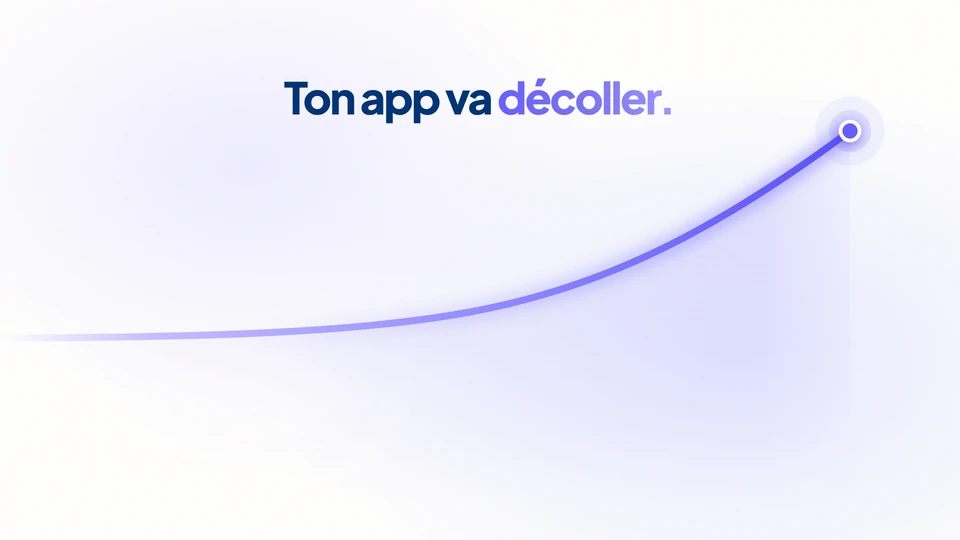
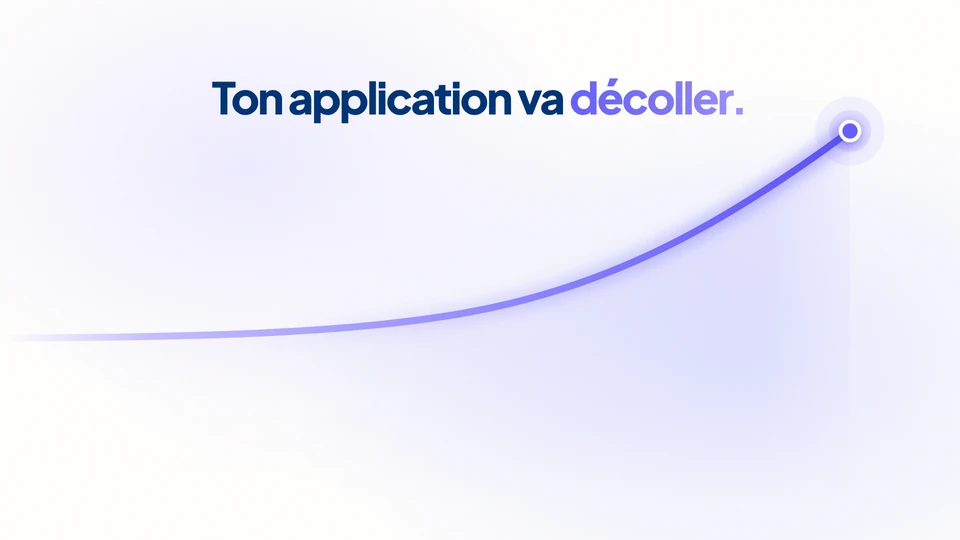
Miniature « Ton application va décoller. », barre du haut moins transparente
- Miniature de la vidéo du hero : « Ton application va décoller. » au lieu
  de « Ton app va décoller. » (Noé), rendue par miniature.cjs, mêmes noms
  de fichiers.
- Barre du haut : fond blanc à 92 % au lieu de 24 % (60 % sur /projets et
  l'audit), sur toutes les pages : le texte des sections ne passe plus au
  travers en défilant.

Claude-Session: https://claude.ai/code/session_01P65FVpXqpWWQ7RQy5iUe2y

Changed region(s): [[0.2188, 0.1481, 0.7812, 0.237]]

diff --git a/src/Blog.jsx b/src/Blog.jsx
@@ -2576,7 +2576,7 @@ function BlogArticlePage({ article, onBack, onBookCall, onAuditApp, onArticle, o
 
       <nav className="fixed inset-x-0 top-2.5 md:top-4.5 z-50 flex justify-center px-4 md:px-6">
         <div className="w-full max-w-230">
-          <div className="backdrop-blur-md border border-[#70707029] shadow-[0_1px_3px_#00000017] rounded-[40px] bg-[#fffefc3d]">
+          <div className="backdrop-blur-md border border-[#70707029] shadow-[0_1px_3px_#00000017] rounded-[40px] bg-[#fffefceb]">
             <div className="flex items-center justify-center min-[480px]:justify-between h-20 px-5 md:px-7">
               <a
                 href="/"
@@ -2821,7 +2821,7 @@ function BlogList({ onBack, onArticle, onBookCall, onAuditApp, onNaviguer }) {
     <div className="min-h-screen bg-surface">
       <nav className="fixed inset-x-0 top-2.5 md:top-4.5 z-50 flex justify-center px-4 md:px-6">
         <div className="w-full max-w-230">
-          <div className="backdrop-blur-md border border-[#70707029] shadow-[0_1px_3px_#00000017] rounded-[40px] bg-[#fffefc3d]">
+          <div className="backdrop-blur-md border border-[#70707029] shadow-[0_1px_3px_#00000017] rounded-[40px] bg-[#fffefceb]">
             <div className="flex items-center justify-center min-[480px]:justify-between h-20 px-5 md:px-7">
               <a
                 href="/"

diff --git a/src/App.jsx b/src/App.jsx
@@ -692,11 +692,14 @@ function App() {
   return (
     <div ref={scrollRef}>
       {/* ========== NAVBAR ========== */}
+      {/* Fond blanc à 92 % (#fffefceb) depuis le 11/10/2026 : à 24 %, le texte des sections passait au travers en
+          défilant (Noé : « la navbar transparente, pas ouf »). Même fond sur toutes les pages (blog, pages SEO, quiz,
+          projets, audit). */}
       <nav className="anim-nav fixed inset-x-0 top-2.5 md:top-[18px] z-50 flex justify-center px-4 md:px-6">
         <div className="w-full max-w-210">
           <div
             className={`backdrop-blur-[12px] border border-[#70707029] shadow-[0_1px_3px_#00000017] overflow-hidden rounded-[40px] transition-[background-color] duration-300 ease-in-out ${
-              menuOpen ? 'bg-[#ffffffee]' : 'bg-[#fffefc3d]'
+              menuOpen ? 'bg-[#ffffffee]' : 'bg-[#fffefceb]'
             }`}
           >
             {/* Bar */}

diff --git a/src/HeroVideo.jsx b/src/HeroVideo.jsx
@@ -31,7 +31,8 @@ const SOURCES = {
 }
 // L'affiche est une vraie image (et pas l'attribut `poster`) : le navigateur choisit la bonne taille et la
 // charge en priorité. Elle couvre la vidéo jusqu'à sa première image. C'est la miniature de la vidéo, dessinée
-// sur le fond blanc du film (celui de « En 2026, un vrai pari ») : « Ton app va décoller. » et une courbe qui
+// sur le fond blanc du film (celui de « En 2026, un vrai pari ») : « Ton application va décoller. » (« Ton app » jusqu'au
+// 11/10/2026) et une courbe qui
 // monte jusqu'à un point violet. Peu d'éléments, et tout dans les deux tiers du haut : sur ordinateur, le bas de
 // l'écran coupe la vidéo à l'arrivée ; sur téléphone, la barre du lecteur couvre le dernier tiers.
 const AFFICHE = { petite: '/assets/videos/hero-v10-miniature-960.webp', grande: '/assets/videos/hero-v10-miniature.webp' }

diff --git a/src/Quiz.jsx b/src/Quiz.jsx
@@ -355,7 +355,7 @@ function Entete({ onAccueil, onBookCall }) {
   return (
     <nav className="fixed inset-x-0 top-2.5 md:top-4.5 z-50 flex justify-center px-4 md:px-6">
       <div className="w-full max-w-230">
-        <div className="backdrop-blur-md border border-[#70707029] shadow-[0_1px_3px_#00000017] rounded-[40px] bg-[#fffefc3d]">
+        <div className="backdrop-blur-md border border-[#70707029] shadow-[0_1px_3px_#00000017] rounded-[40px] bg-[#fffefceb]">
           <div className="flex items-center justify-center min-[480px]:justify-between h-20 px-5 md:px-7">
             <a href="/" onClick={(e) => { e.preventDefault(); onAccueil() }} className="flex items-center gap-3 text-left cursor-pointer min-w-0">
               <img src={mePhoto} alt="Noé Calmes" width="44" height="44" className="h-11 w-11 rounded-full object-cover shrink-0" />

diff --git a/src/Projets.jsx b/src/Projets.jsx
@@ -247,7 +247,7 @@ export default function Projets({ onBack }) {
       {/* Navbar flottante — même langage que la landing et l'audit */}
       <header className="fixed inset-x-0 top-2.5 md:top-[18px] z-50 flex justify-center px-4 md:px-6">
         <div className="w-full max-w-210">
-          <div className="backdrop-blur-[12px] border border-[#70707029] shadow-[0_1px_3px_#00000017] bg-[#fffefc99] rounded-[40px]">
+          <div className="backdrop-blur-[12px] border border-[#70707029] shadow-[0_1px_3px_#00000017] bg-[#fffefceb] rounded-[40px]">
             <div className="flex items-center h-[64px] md:h-[68px] pl-3 pr-4 md:pl-3.5">
               <button
                 onClick={onBack}

diff --git a/src/audit-app/AuditApp.jsx b/src/audit-app/AuditApp.jsx
@@ -264,7 +264,7 @@ function AuditAppTopBar({ onBack }) {
   return (
     <header className="anim-nav fixed inset-x-0 top-2.5 md:top-[18px] z-50 flex justify-center px-4 md:px-6">
       <div className="w-full max-w-200">
-        <div className="backdrop-blur-[12px] border border-[#70707029] shadow-[0_1px_3px_#00000017] bg-[#fffefc99] rounded-[40px]">
+        <div className="backdrop-blur-[12px] border border-[#70707029] shadow-[0_1px_3px_#00000017] bg-[#fffefceb] rounded-[40px]">
           <div className="flex items-center justify-between h-[68px] md:h-[72px] pl-3 pr-2 md:pl-3.5 md:pr-3">
             {/* Brand : photo + nom + statut (clic = retour accueil) */}
             <button

diff --git a/src/PagesSeo.jsx b/src/PagesSeo.jsx
@@ -78,7 +78,7 @@ function EnteteSeo({ onAccueil, onBookCall }) {
   return (
     <nav className="fixed inset-x-0 top-2.5 md:top-4.5 z-50 flex justify-center px-4 md:px-6">
       <div className="w-full max-w-230">
-        <div className="backdrop-blur-md border border-[#70707029] shadow-[0_1px_3px_#00000017] rounded-[40px] bg-[#fffefc3d]">
+        <div className="backdrop-blur-md border border-[#70707029] shadow-[0_1px_3px_#00000017] rounded-[40px] bg-[#fffefceb]">
           <div className="flex items-center justify-center min-[480px]:justify-between h-20 px-5 md:px-7">
             <a
               href="/"

diff --git a/documentation/architecture/landing-page.md b/documentation/architecture/landing-page.md
@@ -103,13 +103,15 @@ Inspiré de celui d'Ikovaline (ikovaline.com) : le titre, une phrase, un bouton,
   quelqu'un (Noé, 10/10/2026), comme le lien du pied de page. Le bouton qui suit « Comment ça se passe ? »
   dit aussi « Discuter avec Noé » (11/10/2026 : la suite de l'étape « On en parle »). La barre du haut et le menu sur téléphone disent « J'ai une idée » (plus court,
   comme Ikovaline), sur l'accueil, le blog, les quiz et les pages /expertise, /creation-application-mobile
-  et /faq. Liens de la barre (`NAV_LINKS`, 11/10/2026) : « Réalisations », « Étapes et tarif », « Qui je suis »
-  (avant : « Preuves », « Méthode », « Audit »), dans l'ordre de la page, les petits titres des sections où ils
+  et /faq. Liens de la barre (`NAV_LINKS`, 11/10/2026) : « Réalisations », « Étapes et tarif », « Avis clients »
+  (« Qui je suis » le matin du 11/10 ; avant : « Preuves », « Méthode », « Audit »), dans l'ordre de la page, les petits titres des sections où ils
   mènent, mot pour mot. « Et tarif » : le prix est la première question de la cible, on doit voir d'un coup
   d'œil où le trouver. Ces liens mènent dans la page : ils ne jouent pas sur le référencement (les liens
   vers les pages SEO sont dans le pied de page et le pré-rendu).
   Plus d'audit dans la barre : « c'est un plus », Noé ne veut pas le pousser ; il reste en bas de page, dans
   le pied de page et sur la route /audit. Les trois tiennent dès 1024 px.
+- Le fond de la barre est blanc à 92 % (`#fffefceb`) depuis le 11/10/2026, sur toutes les pages : à 24 %, le
+  texte des sections passait au travers en défilant (Noé : « la navbar transparente, pas ouf »).
 - Au survol, tous les boutons de l'accueil ont le reflet de la fin du film (« Audit offert ») : un trait
   de lumière penché comme un « / », de haut à droite vers bas à gauche, qui les traverse et passe sous le
   texte (`.btn-reflet` dans `src/index.css`). Les boutons violets (« J'ai une idée d'application » en haut,
@@ -143,8 +145,8 @@ changer le numéro dans les noms de fichiers (v12…) : le navigateur ne ressert
 Le lecteur reprend celui d'Ikovaline (ikovaline.com), à la demande de Noé :
 
 - Tant que la vidéo n'a rien montré, une miniature est posée dessus, comme chez Ikovaline (une « diapo »,
-  peu d'éléments) : le fond blanc du film (celui de « En 2026, un vrai pari »), « Ton app va décoller. »
-  centré en haut (« décoller. » dans le dégradé violet, comme dans le film) et une courbe qui reste à plat
+  peu d'éléments) : le fond blanc du film (celui de « En 2026, un vrai pari »), « Ton application va
+  décoller. » (« Ton app va décoller. » jusqu'au 11/10/2026, Noé : « mets plutôt ton application ») centré en haut (« décoller. » dans le dégradé violet, comme dans le film) et une courbe qui reste à plat
   puis monte vers le haut à droite jusqu'à un point violet, avec un léger dégradé dessous. La phrase est
   plus petite que le titre du hero, pour qu'il reste le plus gros de la page. Tout tient dans les deux
   tiers du haut : sur ordinateur, on ne voit que le haut de la vidéo à l'arrivée, et en descendant on la

diff --git a/content/video-hero/v10/README.md b/content/video-hero/v10/README.md
@@ -8,7 +8,7 @@ Différence avec la v9 : les mots soulignés ont un trait large, façon surligne
 ## Fichiers
 
 - `hero-film-v10.mp4` : la vidéo finale en 1080p, avec la voix off et les bruitages.
-- Sur le site : `public/assets/videos/hero-v10-1080.mp4` (ordinateur), `hero-v10-720.mp4` (mobile), et la miniature `hero-v10-miniature.webp` (1600 px) et `hero-v10-miniature-960.webp`, affichée tant que la vidéo n'a pas démarré : le fond blanc du film, « Ton app va décoller. » et une courbe qui monte (choisie par Noé le 10/10/2026). Source : `src/miniature.cjs` (l'image) puis `src/miniature-webp.py` (les deux WebP).
+- Sur le site : `public/assets/videos/hero-v10-1080.mp4` (ordinateur), `hero-v10-720.mp4` (mobile), et la miniature `hero-v10-miniature.webp` (1600 px) et `hero-v10-miniature-960.webp`, affichée tant que la vidéo n'a pas démarré : le fond blanc du film, « Ton application va décoller. » et une courbe qui monte (choisie par Noé le 10/10/2026 ; « Ton app va décoller. » jusqu'au 11/10/2026). Source : `src/miniature.cjs` (l'image) puis `src/miniature-webp.py` (les deux WebP).
 - `son/` : la voix off seule, les bruitages seuls, le mix final et les scripts du son.
 La v11 (`../v11/`) recale le début sur la voix ; c'est elle qui est en ligne, et le Reel Instagram en est tiré (`../v11/reel/`).
 - `src/` : la source de l'animation (`film-v10.html`, repères de la voix inclus), les repères (`cues-v10.json`) et les scripts de rendu. Pour l'ouvrir : mettre les polices `@fontsource/plus-jakarta-sans`, `@fontsource-variable/libre-baskerville` et `@fontsource/geist-mono` dans un `node_modules` à côté du fichier.
